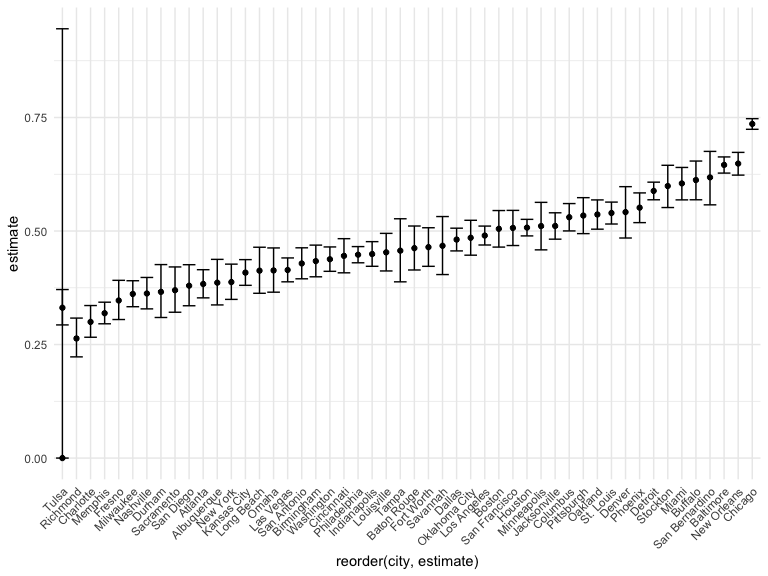
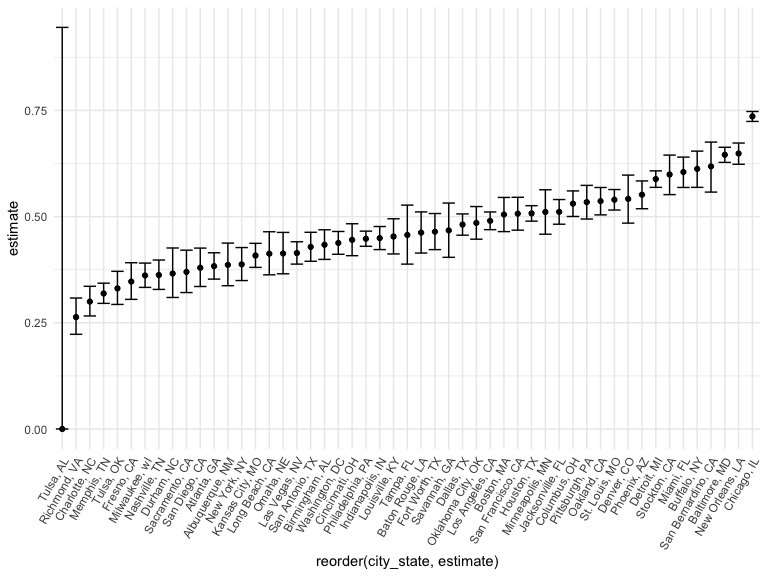
Problem 1 - Changing city to city_state for plot since Tulsa has two occurrences in OK and AL

diff --git a/p8105_hw5_khs2138.md b/p8105_hw5_khs2138.md
@@ -180,7 +180,7 @@ homicides.
 
 ``` r
 city_prop |>
-  ggplot(aes(x = reorder(city, estimate), y = estimate)) + geom_point() + geom_errorbar(aes(ymin = conf.low, ymax = conf.high)) + theme(axis.text.x = element_text(angle = 45, hjust = 1))
+  ggplot(aes(x = reorder(city_state, estimate), y = estimate)) + geom_point() + geom_errorbar(aes(ymin = conf.low, ymax = conf.high)) + theme(axis.text.x = element_text(angle = 60, hjust = 1))
 ```
 
 <img src="p8105_hw5_khs2138_files/figure-gfm/city_plot-1.png" width="90%" />
